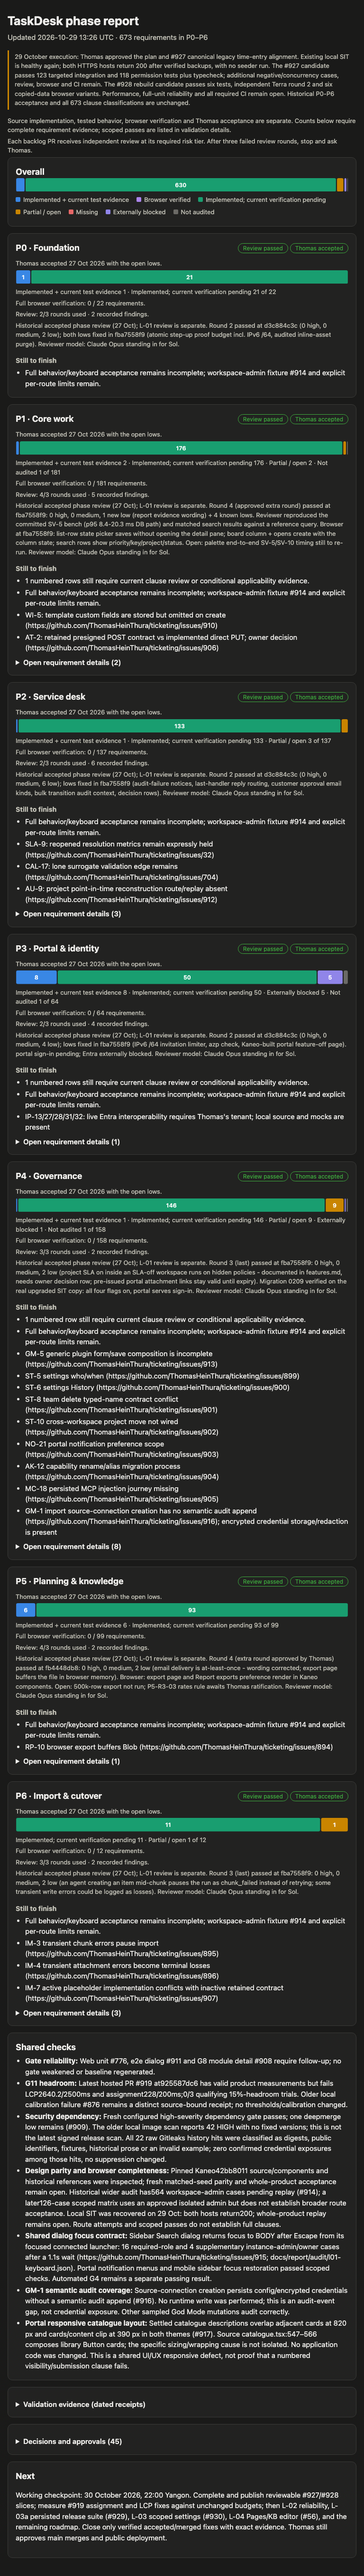
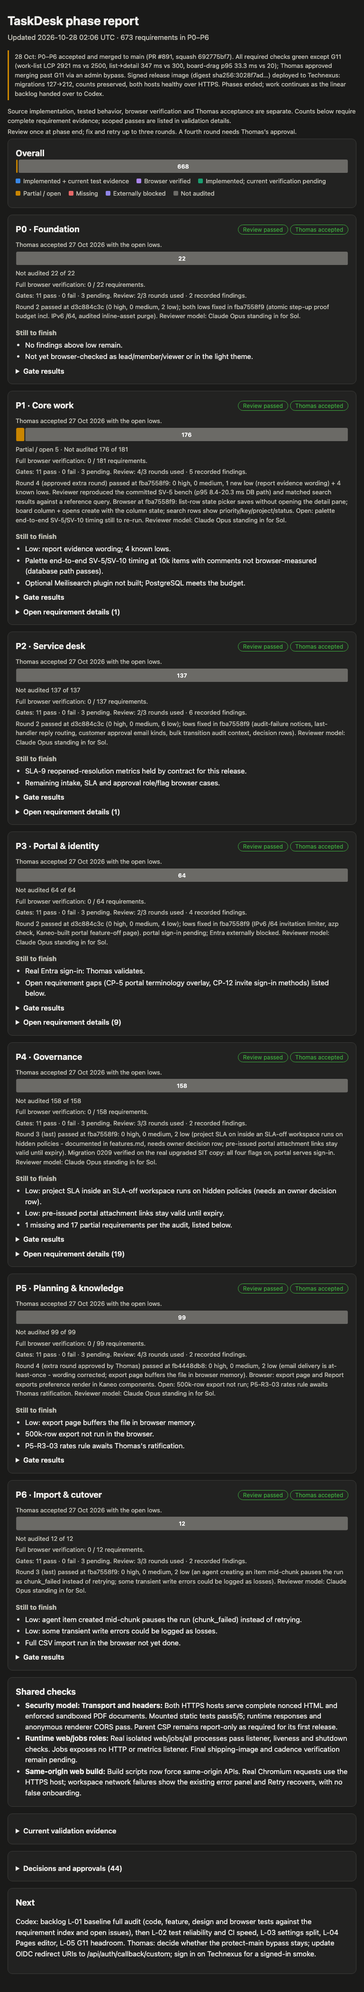
docs: record main report rebuild and security merge evidence

Changed region(s): [[0.0312, 0.0, 0.9688, 0.9993]]

diff --git a/docs/status.md b/docs/status.md
@@ -4,7 +4,7 @@ P0–P6 are delivered, AI-reviewed, accepted by Thomas (27 Oct, with open lows) 
 
 | Work | Current status |
 | --- | --- |
-| 29 Oct approved security fix (#927, draft #931) | Legacy writes enforce canonical create/own-or-any capabilities, persisted ownership, API-key scope and project tracking flags, with transaction rechecks. Full fresh integration on ed3063594 passes 479 files / 5,798 tests in 27m20s; the test container was removed. The earlier four local SMTP failures were duplicate module instances from cross-worktree dependency links; frozen-lockfile offline installation fixed resolution, provider 18/18 and the full rerun pass. After integrating #933/#934, current API typecheck, 10 fresh integration files / 193 tests, exact root pnpm test (7,199 tests), 118 permissions, route policy and API contract pass. Independent Sol high final review has zero high/medium findings. Local image 9ed58d9bf is healthy on both HTTPS hosts; six canonical Time width/theme reload/keyboard checks and synthetic create/edit/reload evidence remain source-bound. Integrating main retains the security code unchanged; fresh hosted checks apply to the resulting head. No public deployment, seeder or customer-record overwrite. |
+| 29 Oct security fix merged (#927, #931) | Legacy writes enforce canonical create/own-or-any capabilities, persisted ownership, API-key scope and project tracking flags, with transaction rechecks. Full fresh integration on ed3063594 passes 479 files / 5,798 tests in 27m20s; the test container was removed. The earlier four local SMTP failures were duplicate module instances from cross-worktree dependency links; frozen-lockfile offline installation fixed resolution, provider 18/18 and the full rerun pass. After integrating #933/#934, current API typecheck, 10 fresh integration files / 193 tests, exact root pnpm test (7,199 tests), 118 permissions, route policy and API contract pass. Independent Sol high final review has zero high/medium findings. Local image 9ed58d9bf is healthy on both HTTPS hosts; six canonical Time width/theme reload/keyboard checks and synthetic create/edit/reload evidence remain source-bound. Integrating main retains the security code unchanged; fresh hosted checks apply to the resulting head. No public deployment, seeder or customer-record overwrite. |
 | 29 Oct root-unit reliability merged (L-02) | [#934](https://github.com/ThomasHeinThura/ticketing/pull/934) merged as 3100e083f. Package tests run serially; the client-close assertion retains its 500 ms bound. Exact local pnpm test passes 7,197 tests across eight packages in 2m27s, focused runtime 9/9; independent Terra review and all 17 required non-G11 checks pass. L-02 memory/CI-speed work and three consecutive main runs remain open. |
 | 29 Oct SMTP reliability merged (L-02) | [#933](https://github.com/ThomasHeinThura/ticketing/pull/933) merged as 153e92ddc under Thomas's standing overnight authority. All 59 email tests and required non-G11 checks pass; independent Sol high review has no high/medium findings. Completed ready-for-review G11 run: LCP 2947.6 ms, detail 332.8 ms, assignment 179.4 ms, drag p95 16.8 ms. G11 remains report-only; no timeout, retry, budget or ruleset changed. |
 | Merge | PR 891 merged 28 Oct with every required check green except G11 performance budgets. Thomas approved merging past G11 through a repository-admin bypass he added to the `protect-main` ruleset. G11 misses are backlog L-05. |
@@ -28,3 +28,5 @@ One coding agent; independent reviewers remain separate. Squash merges use the e
 - **Done:** #934 merged 29 Oct, 22:43 Yangon, commit 3100e083f. **Verified:** exact local pnpm test 7,197; runtime 9/9; all 17 required non-G11 checks green at a57faef51 ([fast CI](https://github.com/ThomasHeinThura/ticketing/actions/runs/40905823201), [full CI](https://github.com/ThomasHeinThura/ticketing/actions/runs/40905823005)). Security full integration separately passes 479 files / 5,798 tests at ed3063594. **UI:** 54 core role/width/theme cases recorded; one readiness observation unresolved. Native tooltips and link prompt remain open, with zero browser-accepted fixes. **Failing:** G11 remains report-only; current run is pending. Previous head ab7a92207 recorded LCP 2794.2 ms, detail 958.4 ms, assignment 160.9 ms, drag p95 16.7 ms. **Blocked:** none for this merge. **Containers:** approved SIT f64643fc7ca4 active; original 6c0d8bd2e4ff stopped for rollback. Removed PostgreSQL 0e2080cf0b51, b00eba8e2f79, 59b9f7f690fa, 5b5ab339258c, 7ffbd5736697, 2acaa661c5eb, 20047fc46af2, e0cc560d9c00, and superseded app 71817f7beeef. **Next:** #931 then #932; continue the UI sweep alongside their CI.
 
 - **Verified follow-up:** #934 G11 completed at a57faef51 ([job](https://github.com/ThomasHeinThura/ticketing/actions/runs/40905823005/job/123561093376)): LCP 2947.1 ms, list-to-detail 289.0 ms, assignment 197.6 ms and drag p95 33.4 ms. These replace the pending measurement in the preceding dated entry; budgets/calibration/workload remain unchanged. #931 integrates main 3100e083f without changing the independently reviewed security diff. Its exact combined root run passes 7,199 tests in 2m27.796s; current API typecheck, 10 integration files / 193 tests, permissions 118, route policy, contract and tracked lint pass. PostgreSQL 6268219932fe was created only for that check and removed immediately after it. The earlier full 479-file / 5,798-test receipt remains bound to ed3063594.
+
+- **Done:** #931 merged as 68c4979cb on 29 Oct at 16:49 UTC under Thomas's standing authority. **Verified:** [full CI](https://github.com/ThomasHeinThura/ticketing/actions/runs/40912757188), [fast CI](https://github.com/ThomasHeinThura/ticketing/actions/runs/40912757177): all 17 required non-G11 checks and all other reported non-G11 checks passed on 73037cac4; independent Sol high review has zero open high/medium findings. Local full integration 479 files / 5,798 tests; integrated head 7,199 unit tests, 193 targeted integration tests, API typecheck, permissions 118, route policy, contract and lint passed. Existing screenshots: [desktop](report/screens/20261029-security-time-1440-light.png). **UI:** core sweep 54 cases, 53 observed and one mobile readiness failure under diagnosis; native editor prompts confirmed, replacement not yet browser-accepted. **Failing:** G11 still in progress at merge, report-only; no performance completion claimed. **Blocked:** none for the next item. **Containers:** SIT f64643fc7ca4 active for browser checks; original 6c0d8bd2e4ff stopped for rollback. Disposable PostgreSQL containers 0e2080cf0b51, b00eba8e2f79, 59b9f7f690fa, 5b5ab339258c, 7ffbd5736697, 2acaa661c5eb, 20047fc46af2, e0cc560d9c00, 6268219932fe and superseded app 71817f7beeef removed. **Next:** #932 report integrity, then continue Stage 2.
